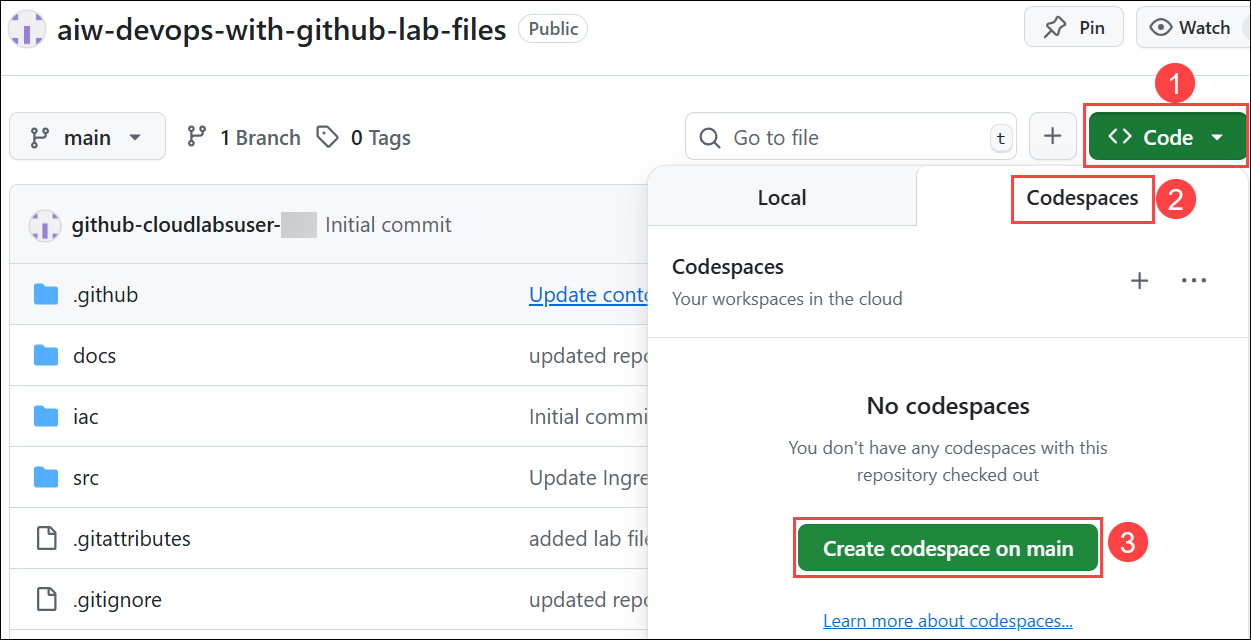
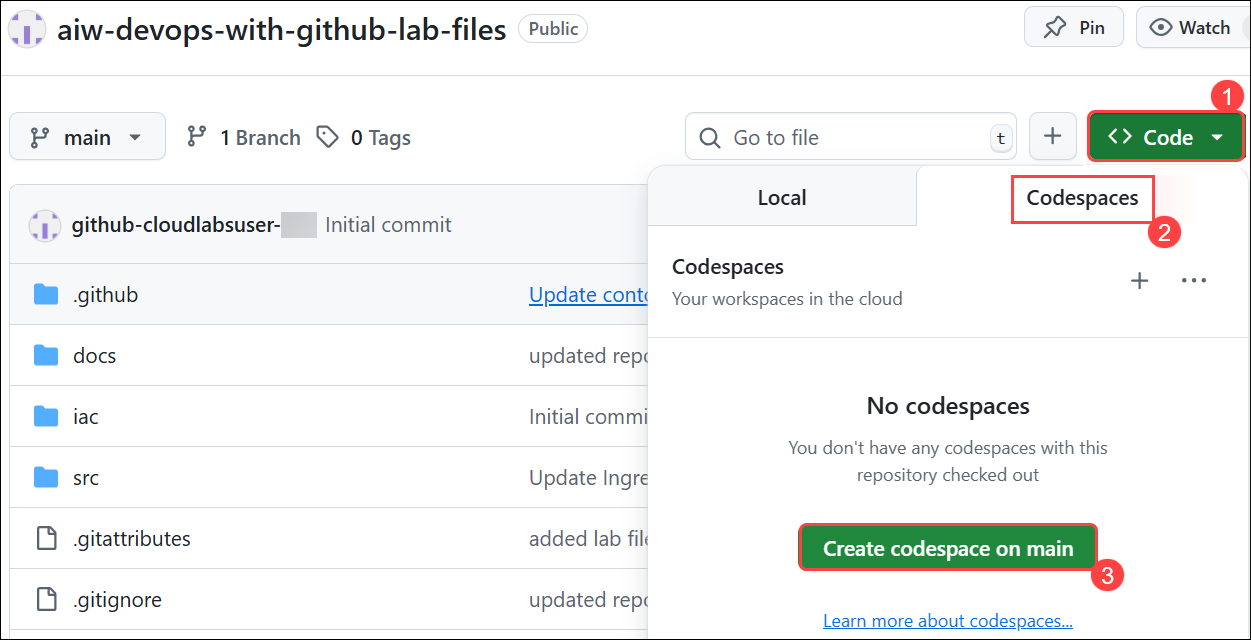
Updated

Changed region(s): [[0.6235, 0.7812, 0.9353, 0.9375], [0.8417, 0.0938, 1.0, 0.4062]]

diff --git a/Hands-on lab/04-azure-boards.md b/Hands-on lab/04-azure-boards.md
@@ -141,9 +141,23 @@ In this task, you'll make changes in GitHub link a PR to Azure boards using synt
 
 In this task, you'll set up an Azure test plan and perform manual testing for the application.
 
-1. From the Azure DevOps tab, select **Test plans (1)** from the side blade. From the Test plans tab, click on **+ New Test Plan (2)**
+1. From the Azure DevOps tab, select **Test plans (1)** from the side blade. From the Test plans tab, click on **+ New Test Plan (2)**.
 
    ![](media/E2T3S1.png)
+
+    >**Note:** If you are unable to See **+ New Test Plan** option then please follow below steps:
+
+    - From the top select **Azure DevOps** then click on **Organization settings (2)**.
+
+      ![](media/org1.png)
+
+    - Select **Users (1)** under general, then select **tree dots (2)** of odl user and select **Change access level (3)**.
+
+      ![](media/org2.png)
+
+    - Then select access level **Basic _ Test Plans (1)** and click on **Save (2)**. and reperform previous step.
+
+      ![](media/org3.png)
 
 1. In the New Test Plan tab, provide the following details and click on **Create** **(4)**.
 

diff --git a/Hands-on lab/02-continuous-integration.md b/Hands-on lab/02-continuous-integration.md
@@ -336,8 +336,6 @@ In this task, you will build automation in GitHub for updating and republishing 
 
      > **Note:** Replace `{your_password}` with the ODL User Azure Password: **<inject key="AzureAdUserPassword"></inject>**
 
-     ![](media/E1T4S7-2.png)
-
 1. Navigate to **Environment** **(1)**, click on **Service Principal Details** **(2)** and copy the **Subscription ID**, **Tenant Id (Directory ID)**, **Application Id (Client Id)** and **Secret Key (Client Secret)**.
 
    ![](media/E1T4S8.png)
